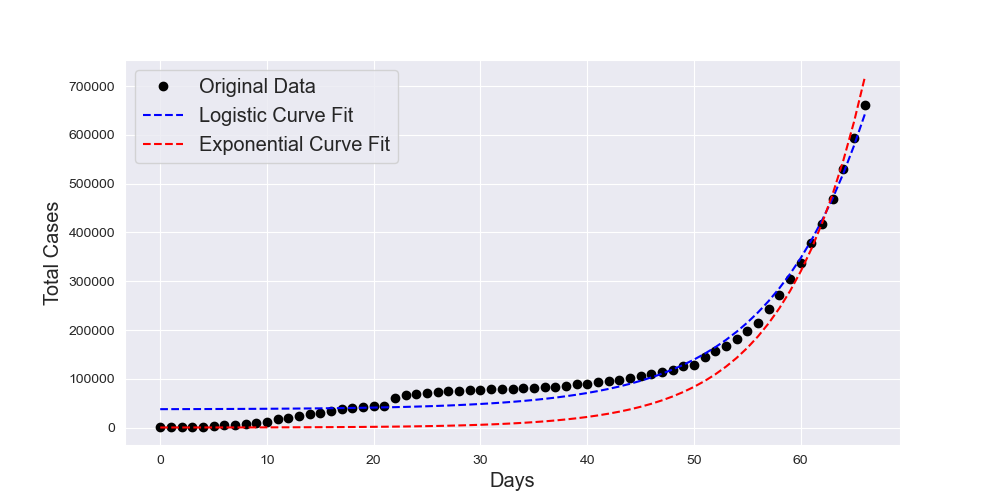
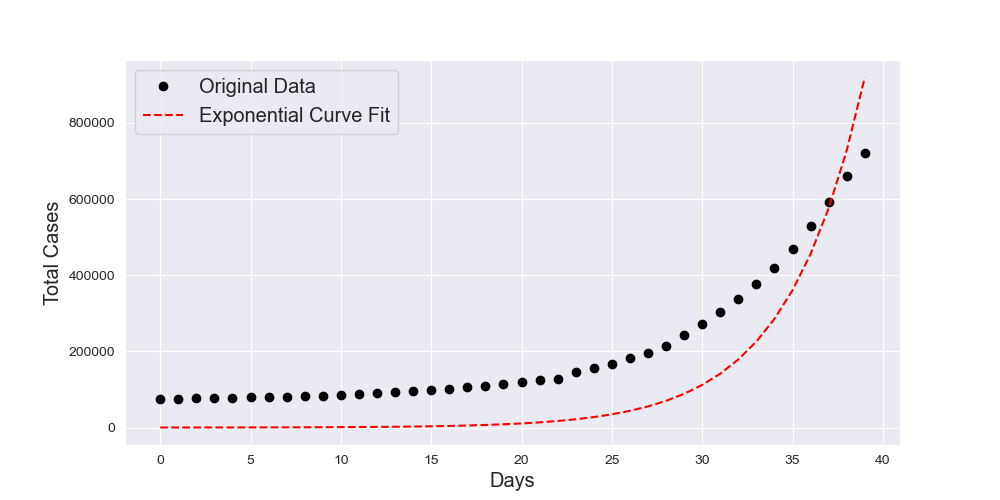
added prevalence

diff --git a/creating_report.py b/creating_report.py
@@ -9,6 +9,8 @@ from PIL import Image, ImageDraw
 from scipy.optimize import curve_fit
 
 df = pd.read_csv('https://raw.githubusercontent.com/CSSEGISandData/COVID-19/master/csse_covid_19_data/csse_covid_19_time_series/time_series_covid19_confirmed_global.csv')
+relevance = 0.1
+R2_limit = 0.5
 
 
 def logistic(t, a, b, c, d):
@@ -19,7 +21,10 @@ def exponential(t, a, b, c):
     return a * np.exp(b * t) + c
 
 
-def plotCases(dataframe, column, country):
+def plotCases(dataframe, column, c):
+    country, inhabitants = c
+    border = relevance * (inhabitants / 10000)
+
     if country is None:
         co = dataframe.iloc[:, 4:].T.sum(axis=1)
         country = 'WorldWide'
@@ -27,9 +32,10 @@ def plotCases(dataframe, column, country):
         co = pd.read_csv(
             'https://raw.githubusercontent.com/daenuprobst/covid19-cases-switzerland/master/covid19_cases_switzerland_openzh.csv').iloc[
              :, -1]
-
     else:
         co = dataframe[dataframe[column] == country].iloc[:, 4:].T.sum(axis=1)
+    # filter that all data is > {relevance} infection per 10k
+    co = co[co >= border]
     co = pd.DataFrame(co)
     co.columns = ['Cases']
     co = co.loc[co['Cases'] > 0]
@@ -84,7 +90,7 @@ def plotCases(dataframe, column, country):
         ss_tot = np.sum((y - np.mean(y)) ** 2)
         logisticr2 = 1 - (ss_res / ss_tot)
 
-        if logisticr2 > 0.8:
+        if logisticr2 > R2_limit:
             content.append('\n')
             plt.plot(x, logistic(x, *lpopt), 'b--', label="Logistic Curve Fit")
             content.append('\n## Based on Logistic Fit\n')
@@ -92,7 +98,6 @@ def plotCases(dataframe, column, country):
             content.append(f'\tR^2:{logisticr2}\n')
             content.append(f'\tDoubling Time (during middle of growth): '
                            f'{round(ldoubletime, 2)} (± {round(ldoubletimeerror, 2)}) days\n')
-
     except:
         pass
 
@@ -111,7 +116,7 @@ def plotCases(dataframe, column, country):
         ss_tot = np.sum((y - np.mean(y)) ** 2)
         expr2 = 1 - (ss_res / ss_tot)
 
-        if expr2 > 0.8:
+        if expr2 > R2_limit:
             content.append("\n")
             plt.plot(x, exponential(x, *epopt), 'r--', label="Exponential Curve Fit")
             content.append('\n## Based on Exponential Fit \n')
@@ -138,6 +143,6 @@ def plotCases(dataframe, column, country):
 
 
 if __name__ == '__main__':
-    countries = ['Switzerland', 'Germany', 'US', None]
+    countries = [('Switzerland', 8570000), ('Germany', 82790000), ('US', 327200000), (None, 7530000000)]
     for c in countries:
         plotCases(df, 'Country/Region', c)

diff --git a/docs/README.md b/docs/README.md
@@ -13,6 +13,9 @@ The data for Switzerland are pulled from [daenuprobst repo](https://github.com/d
 
 Original code from https://github.com/aatishb/covid
 
+The starting point of the figure is the first day where the prevalence > 0.1 per 10'000 inhabitants.
+
+
 # Switzerland
 ![Switzerland figure](images/figure_Switzerland.png)
 ![Switzerland figure](reports/report_Switzerland.png)
